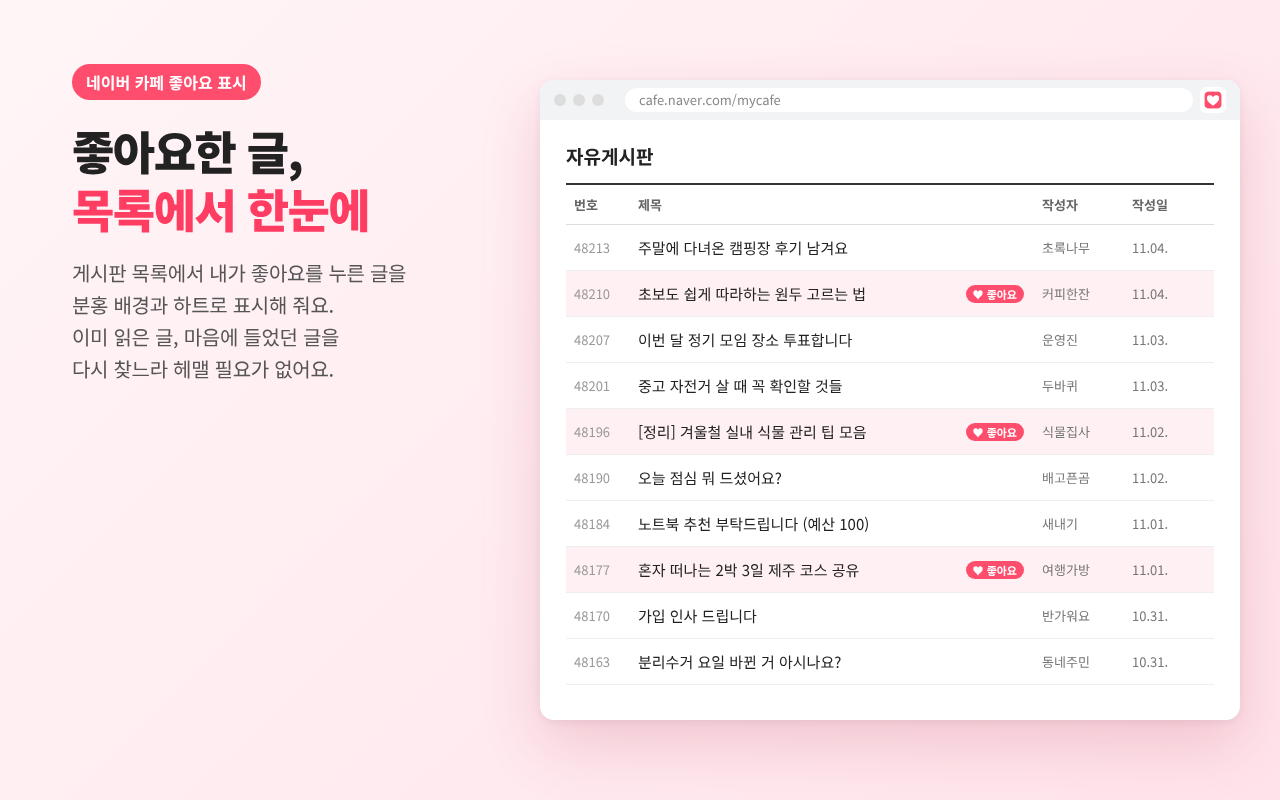
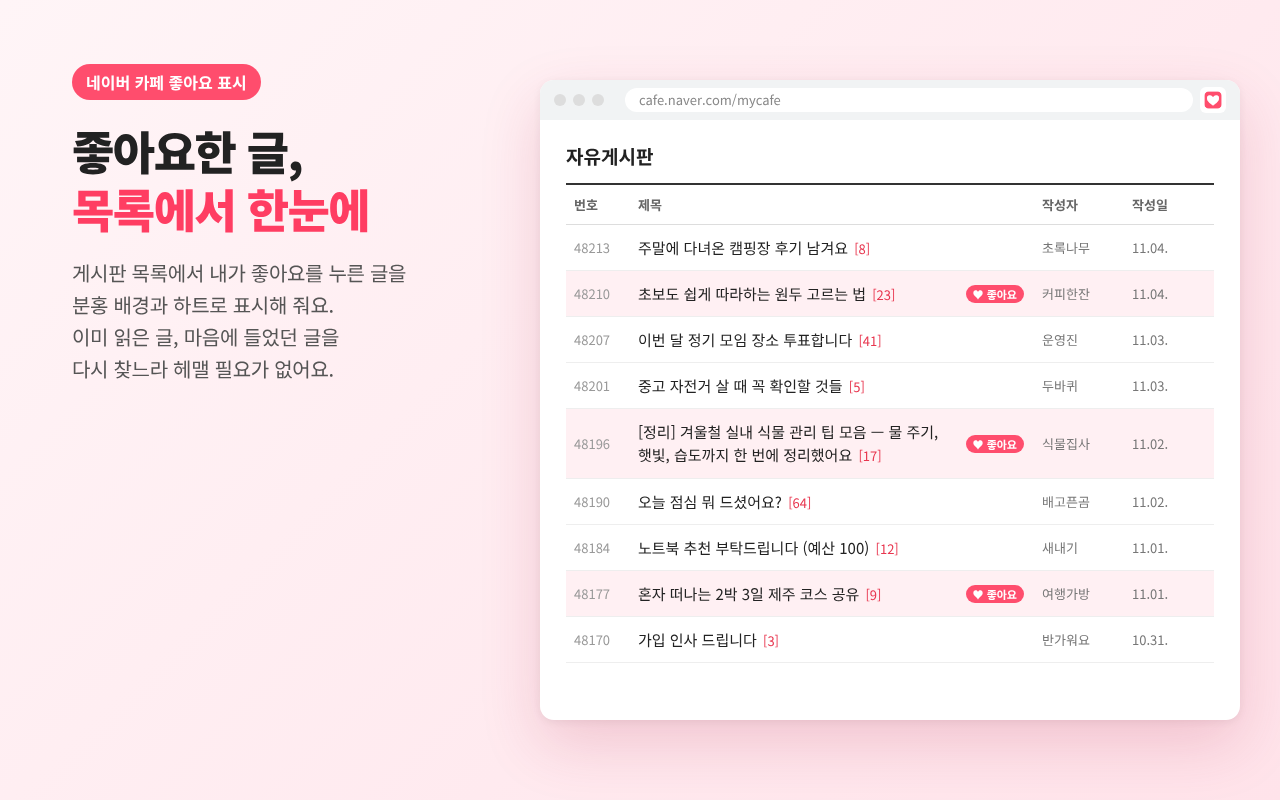
스토어 스크린샷을 샘플 데이터로 다시 만듦
- 댓글 수와 여러 줄로 감싸지는 긴 제목을 넣어 실제 게시판처럼 구성
- 하트 모양(글자 배지 / 아이콘만) 비교 스크린샷 5번 추가

Claude-Session: https://claude.ai/code/session_018ih16usEF2kqeph62Xi418

diff --git a/tools/store.html b/tools/store.html
@@ -58,6 +58,8 @@ td{position:relative}
 .toast{position:absolute;background:#222;color:#fff;border-radius:10px;padding:14px 20px;font-size:15px;box-shadow:0 10px 30px rgba(0,0,0,.25)}
 .toast b{color:#ff8fa3}
 .cursor{position:absolute;width:26px}
+.cm{color:#e8364f;font-size:13px;margin-left:2px}
+.badge.ic{padding:0 6px}
 /* promo */
 .p{width:440px;height:280px}
 .m{width:1400px;height:560px}
@@ -73,18 +75,7 @@ td{position:relative}
   <div class="win" style="left:540px;top:80px;width:700px;height:640px">
     <div class="bar"><i></i><i></i><i></i><div class="url">cafe.naver.com/mycafe</div><div class="ext"><img src="../extension/icons/icon32.png"></div></div>
     <div class="board"><h2>자유게시판</h2>
-    <table><tr><th>번호</th><th>제목</th><th>작성자</th><th>작성일</th></tr>
-      <tr><td class="no">48213</td><td>주말에 다녀온 캠핑장 후기 남겨요</td><td class="au">초록나무</td><td class="dt">11.04.</td></tr>
-      <tr class="liked"><td class="no">48210</td><td>초보도 쉽게 따라하는 원두 고르는 법<span class="badge">♥ 좋아요</span></td><td class="au">커피한잔</td><td class="dt">11.04.</td></tr>
-      <tr><td class="no">48207</td><td>이번 달 정기 모임 장소 투표합니다</td><td class="au">운영진</td><td class="dt">11.03.</td></tr>
-      <tr><td class="no">48201</td><td>중고 자전거 살 때 꼭 확인할 것들</td><td class="au">두바퀴</td><td class="dt">11.03.</td></tr>
-      <tr class="liked"><td class="no">48196</td><td>[정리] 겨울철 실내 식물 관리 팁 모음<span class="badge">♥ 좋아요</span></td><td class="au">식물집사</td><td class="dt">11.02.</td></tr>
-      <tr><td class="no">48190</td><td>오늘 점심 뭐 드셨어요?</td><td class="au">배고픈곰</td><td class="dt">11.02.</td></tr>
-      <tr><td class="no">48184</td><td>노트북 추천 부탁드립니다 (예산 100)</td><td class="au">새내기</td><td class="dt">11.01.</td></tr>
-      <tr class="liked"><td class="no">48177</td><td>혼자 떠나는 2박 3일 제주 코스 공유<span class="badge">♥ 좋아요</span></td><td class="au">여행가방</td><td class="dt">11.01.</td></tr>
-      <tr><td class="no">48170</td><td>가입 인사 드립니다</td><td class="au">반가워요</td><td class="dt">10.31.</td></tr>
-      <tr><td class="no">48163</td><td>분리수거 요일 바뀐 거 아시나요?</td><td class="au">동네주민</td><td class="dt">10.31.</td></tr>
-    </table></div>
+    <table><tr><th>번호</th><th>제목</th><th>작성자</th><th>작성일</th></tr><tr><td class="no">48213</td><td>주말에 다녀온 캠핑장 후기 남겨요 <span class="cm">[8]</span></td><td class="au">초록나무</td><td class="dt">11.04.</td></tr><tr class="liked"><td class="no">48210</td><td>초보도 쉽게 따라하는 원두 고르는 법 <span class="cm">[23]</span><span class="badge">♥ 좋아요</span></td><td class="au">커피한잔</td><td class="dt">11.04.</td></tr><tr><td class="no">48207</td><td>이번 달 정기 모임 장소 투표합니다 <span class="cm">[41]</span></td><td class="au">운영진</td><td class="dt">11.03.</td></tr><tr><td class="no">48201</td><td>중고 자전거 살 때 꼭 확인할 것들 <span class="cm">[5]</span></td><td class="au">두바퀴</td><td class="dt">11.03.</td></tr><tr class="liked"><td class="no">48196</td><td style="white-space:normal;line-height:1.5;padding-right:84px">[정리] 겨울철 실내 식물 관리 팁 모음 — 물 주기, 햇빛, 습도까지 한 번에 정리했어요 <span class="cm">[17]</span><span class="badge">♥ 좋아요</span></td><td class="au">식물집사</td><td class="dt">11.02.</td></tr><tr><td class="no">48190</td><td>오늘 점심 뭐 드셨어요? <span class="cm">[64]</span></td><td class="au">배고픈곰</td><td class="dt">11.02.</td></tr><tr><td class="no">48184</td><td>노트북 추천 부탁드립니다 (예산 100) <span class="cm">[12]</span></td><td class="au">새내기</td><td class="dt">11.01.</td></tr><tr class="liked"><td class="no">48177</td><td>혼자 떠나는 2박 3일 제주 코스 공유 <span class="cm">[9]</span><span class="badge">♥ 좋아요</span></td><td class="au">여행가방</td><td class="dt">11.01.</td></tr><tr><td class="no">48170</td><td>가입 인사 드립니다 <span class="cm">[3]</span></td><td class="au">반가워요</td><td class="dt">10.31.</td></tr></table></div>
   </div>
 </div>
 
@@ -154,6 +145,13 @@ td{position:relative}
     <svg class="cursor" style="left:150px;top:560px" viewBox="0 0 24 24"><path d="M3 2l7 19 2.5-7.5L20 11z" fill="#222" stroke="#fff" stroke-width="1.5" stroke-linejoin="round"/></svg>
     <div style="position:absolute;left:250px;top:556px;border:2px dashed #ff4d6d;color:#ff3d62;background:rgba(255,255,255,.9);border-radius:10px;padding:10px 16px;font-size:15px;font-weight:700">← 누르는 순간 자동 저장</div>
   </div>
+</div>
+
+
+<!-- 5. heart style -->
+<div class="canvas s" id="shot5">
+  <div class="center"><h1>하트 모양도 <em>골라서</em></h1><p>글자가 들어간 배지와 하트만 있는 배지 중에서 고를 수 있어요</p></div>
+  <div class="cols" style="left:150px;right:150px"><div class="col"><h4><span class="ht" style="padding:0 6px">♥ 좋아요</span> 글자 배지</h4><table><tr><th>제목</th></tr><tr><td>주말 캠핑장 후기 남겨요 <span class="cm">[8]</span></td></tr><tr class="liked"><td>원두 고르는 법 정리 <span class="cm">[23]</span><span class="badge">♥ 좋아요</span></td></tr><tr><td>정기 모임 장소 투표 <span class="cm">[41]</span></td></tr><tr class="liked"><td>실내 식물 관리 팁 모음 <span class="cm">[17]</span><span class="badge">♥ 좋아요</span></td></tr><tr><td>오늘 점심 뭐 드셨어요? <span class="cm">[64]</span></td></tr><tr class="liked"><td>2박 3일 제주 코스 공유 <span class="cm">[9]</span><span class="badge">♥ 좋아요</span></td></tr><tr><td>가입 인사 드립니다 <span class="cm">[3]</span></td></tr></table></div><div class="col"><h4><span class="ht" style="padding:0 6px">♥</span> 아이콘만</h4><table><tr><th>제목</th></tr><tr><td>주말 캠핑장 후기 남겨요 <span class="cm">[8]</span></td></tr><tr class="liked"><td>원두 고르는 법 정리 <span class="cm">[23]</span><span class="badge ic">♥</span></td></tr><tr><td>정기 모임 장소 투표 <span class="cm">[41]</span></td></tr><tr class="liked"><td>실내 식물 관리 팁 모음 <span class="cm">[17]</span><span class="badge ic">♥</span></td></tr><tr><td>오늘 점심 뭐 드셨어요? <span class="cm">[64]</span></td></tr><tr class="liked"><td>2박 3일 제주 코스 공유 <span class="cm">[9]</span><span class="badge ic">♥</span></td></tr><tr><td>가입 인사 드립니다 <span class="cm">[3]</span></td></tr></table></div></div>
 </div>
 
 <!-- promo small -->

diff --git a/tools/shoot.py b/tools/shoot.py
@@ -6,7 +6,7 @@ async def main():
         pg=await b.new_page(viewport={"width":1500,"height":900})
         await pg.goto("file://"+str(pathlib.Path("store.html").resolve()))
         await pg.wait_for_timeout(1500)
-        for id,name in [("shot1","screenshot-1_1280x800.png"),("shot2","screenshot-2_1280x800.png"),("shot3","screenshot-3_1280x800.png"),("shot4","screenshot-4_1280x800.png"),("promo","promo-small_440x280.png"),("marquee","promo-marquee_1400x560.png")]:
+        for id,name in [("shot1","screenshot-1_1280x800.png"),("shot2","screenshot-2_1280x800.png"),("shot3","screenshot-3_1280x800.png"),("shot4","screenshot-4_1280x800.png"),("shot5","screenshot-5_1280x800.png"),("promo","promo-small_440x280.png"),("marquee","promo-marquee_1400x560.png")]:
             await pg.locator("#"+id).screenshot(path="../store-assets/"+name)
         await b.close()
     # 스토어 이미지는 알파 채널 없는 PNG여야 함
